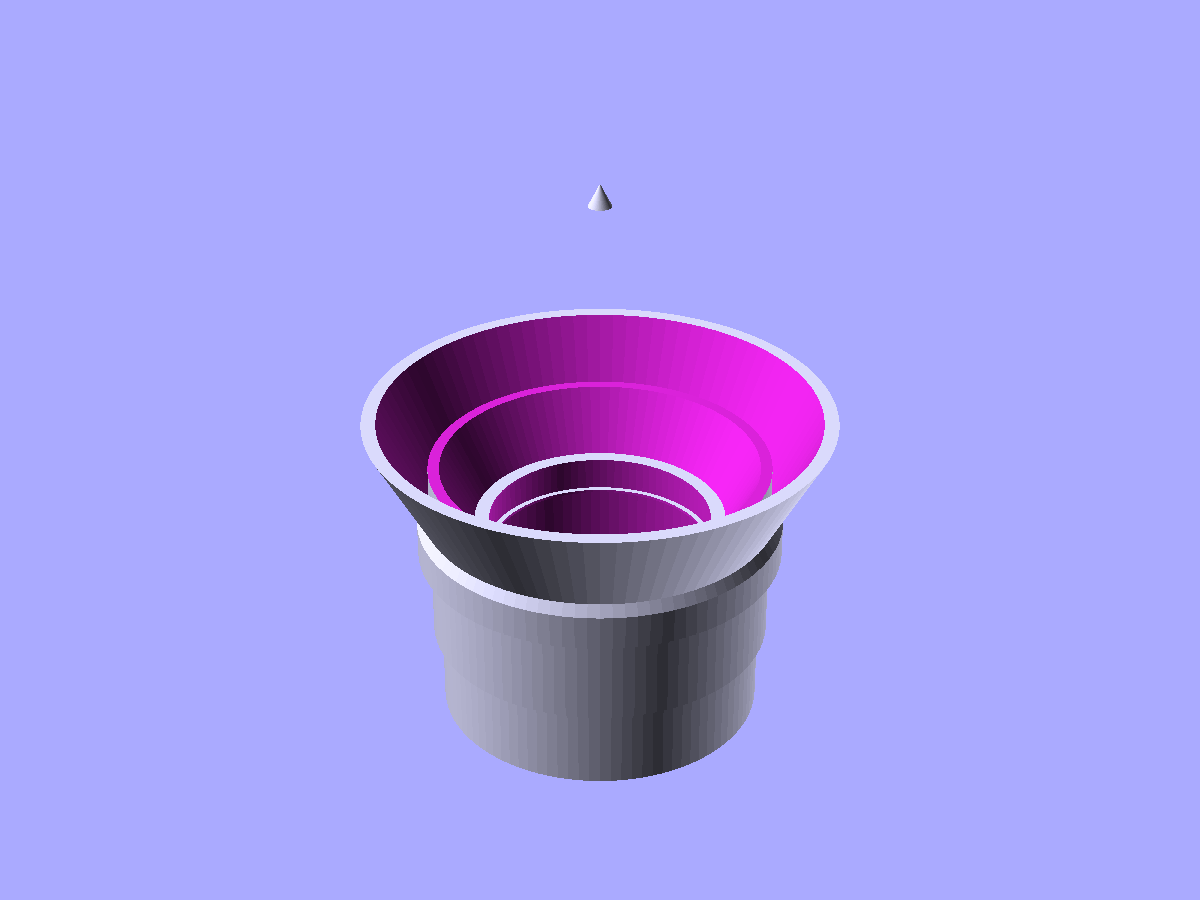
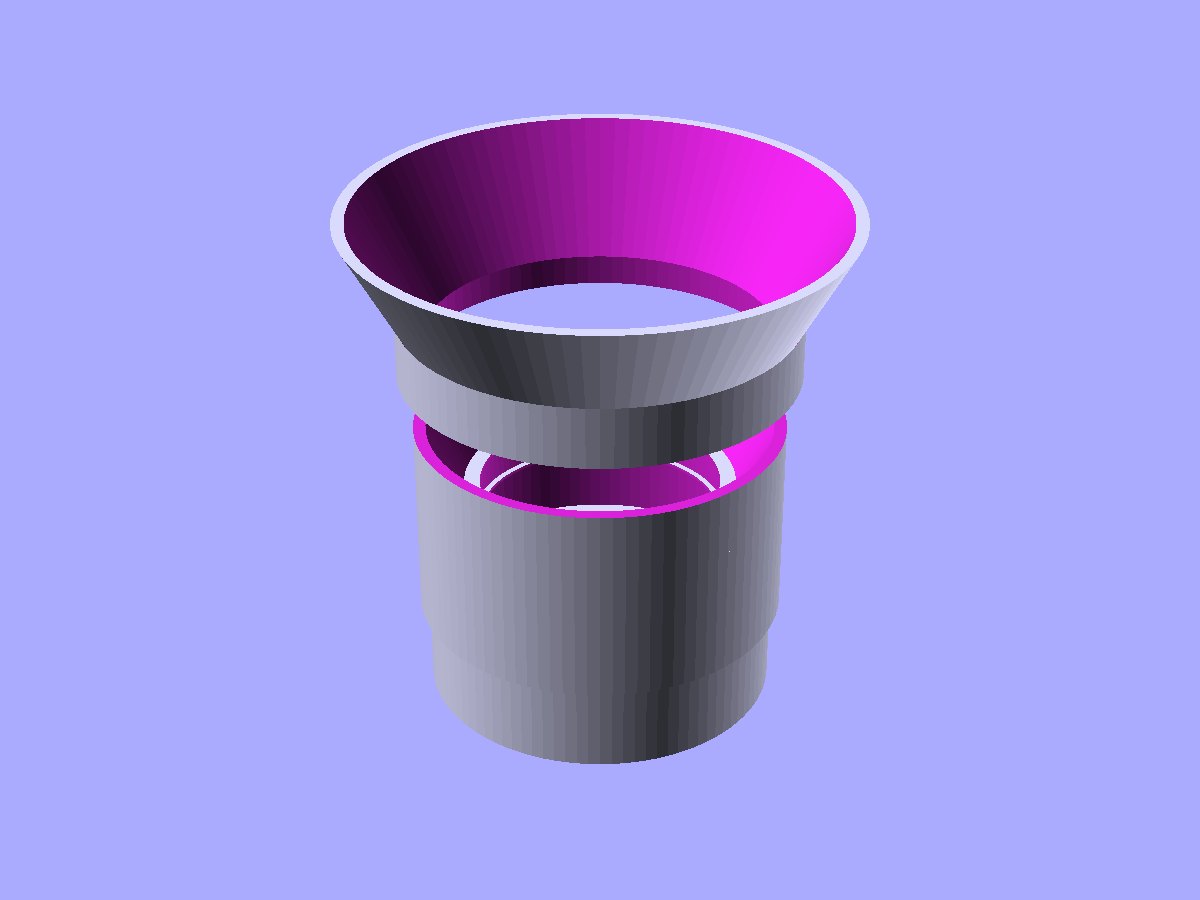
example/lens-housing: fix floating-cone artifact and hood overlap
Two bugs in the display variant:

1. LensHood's transition fillet used FilletRing with the default
   slant="outwards". That shape is a cone of od/2 * tan(angle) tall,
   truncated by an inner cylinder only up to id/2 * tan(angle) --
   leaving a tapered peak (the "tiny cone") floating far above the
   coupled ring. Fix: slant="inwards", which is a clean wedge ring
   with no apex.

2. The display lifted the hood by upper_housing_len + hood_length,
   which landed the coupler exactly in its mounted position (one
   coupler_overlap of overlap with the housing). Worse, the housing's
   front trunc_fillet_ring adds ~10 mm above upper_housing_len, so
   even "mounted" wasn't the real overlap boundary.

   Fix: compute the housing's actual top with bbox(), then lift the
   hood by hood_length + coupler_overlap + coupler_overlap_gap above
   that. The coupler now sits coupler_overlap above the housing top
   with a visible gap showing both coupling edges.

Changed region(s): [[0.2775, 0.1244, 0.74, 0.7778], [0.37, 0.7778, 0.6167, 0.8711]]

diff --git a/examples/lens-housing.py b/examples/lens-housing.py
@@ -15,7 +15,7 @@ Run:
 from collections import namedtuple
 from math import inf, radians, tan
 
-from scadwright import Component, Param
+from scadwright import Component, Param, bbox
 from scadwright.boolops import difference, union
 from scadwright.composition_helpers import mirror_copy
 from scadwright.design import Design, run, variant
@@ -204,6 +204,7 @@ class LensHood(Component):
             id=self.housing_upper_od + self.hood_clr,
             od=self.housing_upper_od + self.hood_clr + 2 * self.wall_thk,
             base_angle=63,
+            slant="inwards",
         ).flip("z").up(self.hood_length)
 
         return union(top, fillet)
@@ -266,10 +267,15 @@ class M57Lens(Design):
 
     @variant(fn=48)
     def display(self):
+        # Lift the hood one coupler_overlap above the true housing top (which
+        # sits above upper_housing_len because of the front fillet ring) so
+        # the housing's upper rim is visible between the two parts.
+        housing_top_z = bbox(self.housing).max[2]
+        gap = self.hood.coupler_overlap
         return union(
             self.housing,
             self.hood.flip("z").up(
-                self.housing.upper_housing_len + self.hood.hood_length
+                housing_top_z + gap + self.hood.hood_length + self.hood.coupler_overlap
             ),
         )
 
